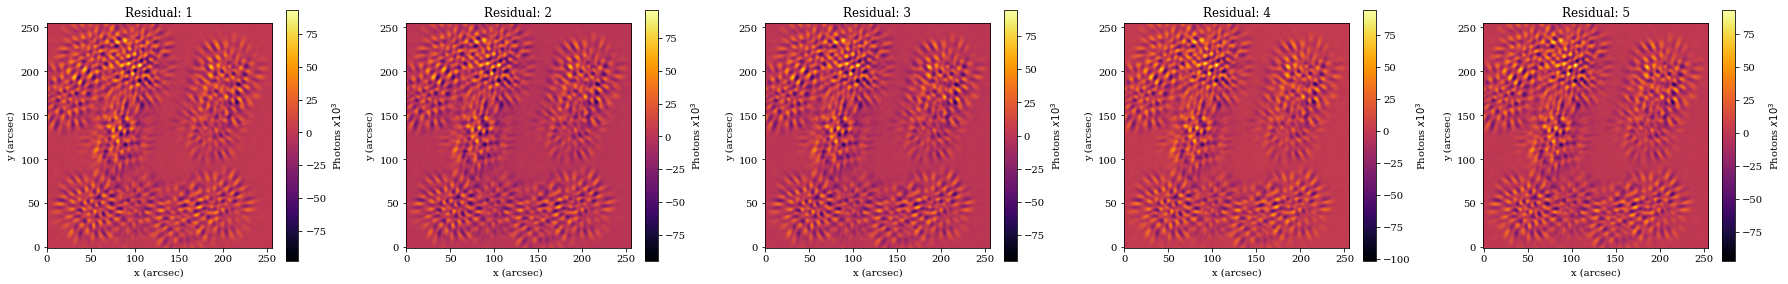
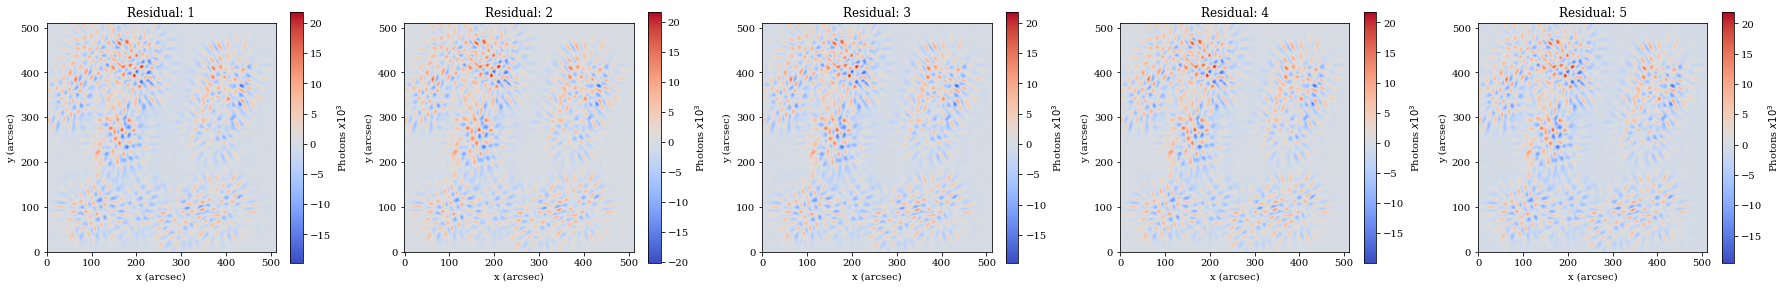
Updates flatfield figures

diff --git a/docs/tutorials/examples/flatfield_calibration.md b/docs/tutorials/examples/flatfield_calibration.md
@@ -156,7 +156,7 @@ plt.figure(figsize=(25, 4))
 for i in range(len(psfs)):
     plt.subplot(1, 5, i+1)
     plt.title(f"Residual: {i+1}")
-    plt.imshow((psfs[i] - data[i])*1e-3)
+    plt.imshow((psfs[i] - data[i])*1e-3,cmap='coolwarm')
     plt.xlabel("x (arcsec)")
     plt.ylabel("y (arcsec)")
     plt.colorbar(label='Photons $x10^3$')
